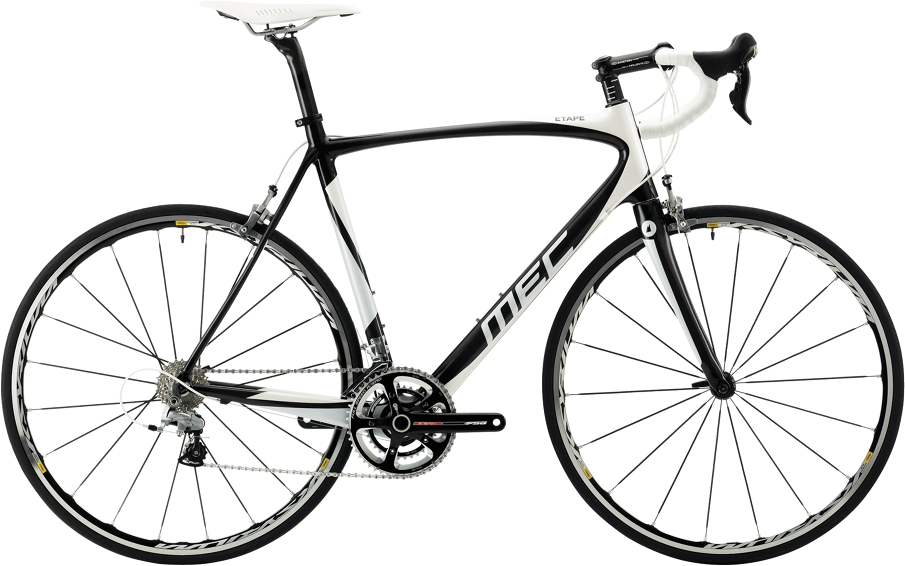
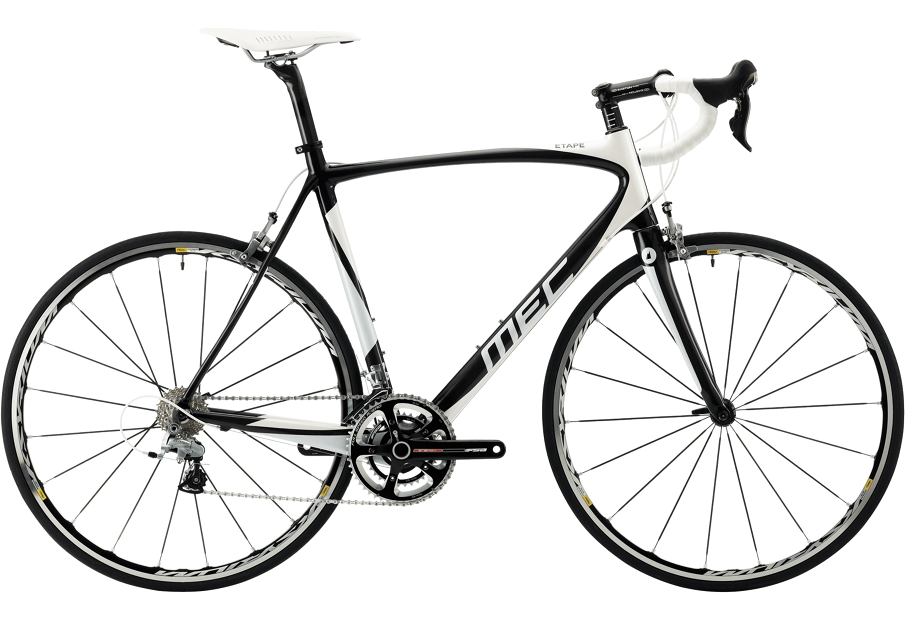
responsify the contents & footer

Changed region(s): [[0.0, 0.0, 1.0, 1.0], [0.6807, 0.5406, 0.7116, 0.5707], [0.0928, 0.5106, 0.1238, 0.5406]]

diff --git a/app/index.html b/app/index.html
@@ -78,16 +78,16 @@
         </section>
 
         <section class="content-section features">
-            <div class="column--breakout is-5">
-                <div class="section__figure">
-                    <figure class="feature__display">
-                        <img src="img/bicycle_PNG5392.png" alt="">
-                    </figure>
-                </div>
-            </div>
-            <div class="container">
+            <div class="container is-fluid">
                 <div class="columns">
-                    <div class="column is-7 is-offset-7">
+                    <div class="column is-7">
+                        <div class="section__figure">
+                            <figure class="feature__display">
+                                <img src="img/bicycle_PNG5392.png" alt="">
+                            </figure>
+                        </div>
+                    </div>
+                    <div class="column is-4">
                         <div class="features__content">
                             <h1 class="title is-4">Effortless travelling with BikeX</h1>
                             <p class="subtitle is-5">Featuring freshing functions that can be found nowhere but in our product.</p>
@@ -145,7 +145,7 @@
                             <a href="#" class="button button--accent">What's the Inspiration?</a>
                         </div>
                     </div>
-                    <div class="column is-9 is-right">
+                    <div class="column is-7">
                         <div class="section__design">
                             <figure class="design__display">
                                 <img src="img/MEC_Road_Bike_transparent_905.png" alt=""></figure>
@@ -290,12 +290,12 @@
                         <h1 class="title is-4">Pre-order from your location's retailer right now</h1>
                         <p class="subtitle is-5">Also grab our subscription for free once you registered</p>
                         <form action="" class="preorder-form">
-                            <a href="#" class="button button--accent">Submit</a>
+                            <a class="button button--accent">Submit</a>
                             <p class="control has-icon">
-                                <input type="email" class="input" placeholder="Enter email address" id="email-input">
+                                <input required type="email" class="input" placeholder="Enter email address" id="email-input">
                                 <i class="icon icon-home"></i>
                             </p>
-                            <select class="cs-select cs-skin-border">
+                            <select required class="cs-select cs-skin-border">
                                 <option value="" disabled selected>Choose your retailer</option>
                                 <option value="1">Helsinki</option>
                                 <option value="2">London</option>

diff --git a/app/styles/css/main.css b/app/styles/css/main.css
@@ -34,6 +34,9 @@ div.cs-select:focus {
   white-space: nowrap;
   overflow: hidden;
   text-overflow: ellipsis; }
+  @media (max-width: 598px) {
+    .cs-select span {
+      font-size: 12px; } }
 
 /* Placeholder and selected option */
 .cs-select > span {
@@ -103,6 +106,9 @@ div.cs-skin-border {
   font-family: 'Helium';
   content: '\e65b';
   color: #eb5937; }
+  @media (max-width: 598px) {
+    .cs-skin-border > span::after {
+      font-size: 14px; } }
 
 .cs-skin-border ul span::after {
   content: '';
@@ -255,6 +261,9 @@ h1 {
     .content-section .container {
       padding-left: 1em;
       padding-right: 1em; } }
+  @media (max-width: 598px) {
+    .content-section .title {
+      font-size: 36px; } }
 
 .container__content {
   padding-bottom: 2em; }
@@ -281,7 +290,8 @@ h1 {
   width: 75vw; }
   @media (max-width: 598px) {
     .navigation header {
-      width: 90vw; } }
+      width: 100vw;
+      padding: 0 1em; } }
 
 .header__content {
   transform: translateY(-50px);
@@ -429,6 +439,13 @@ h1 {
   margin: 1.5em 0;
   line-height: 1.5; }
 
+@media (max-width: 979px) {
+  .features .columns, .design .columns {
+    display: flex;
+    flex-flow: column wrap; }
+  .features .column.is-7, .design .column.is-7 {
+    order: 2; } }
+
 .features__list {
   margin: 3.5em 0; }
   .features__list .title {
@@ -480,6 +497,8 @@ a.button--accent {
       color: #EEEFF7;
       font-weight: 700;
       margin-bottom: 0.75em; }
+    .transition .content .subtitle {
+      color: #EEEFF7; }
     .transition .content .button {
       margin-top: 2em; }
 
@@ -642,6 +661,9 @@ div.block--selected:not(.color-block) {
 
 #email-input {
   padding-left: 4em; }
+  @media (max-width: 598px) {
+    #email-input {
+      font-size: 12px; } }
 
 /* section footer */
 footer {
@@ -670,6 +692,9 @@ footer {
   text-align: right; }
   .copyright p > span {
     color: #eb5937; }
+  @media (max-width: 598px) {
+    .copyright {
+      text-align: center; } }
 
 /* For Icon Font */
 .icon {

diff --git a/app/styles/scss/main.scss b/app/styles/scss/main.scss
@@ -166,6 +166,12 @@ h1 {
             padding-right: 1em;
         }
     }
+
+    @include phone {
+        .title {
+            font-size: 36px;
+        }
+    }
 }
 
 .container__content {
@@ -203,7 +209,8 @@ h1 {
         width: 75vw;
 
         @include phone {
-            width: 90vw;
+            width: 100vw;
+            padding: 0 1em;
         }
     }
 
@@ -413,6 +420,17 @@ h1 {
         margin: 1.5em 0;
         line-height: 1.5;
     }
+
+    @include tablet {
+        .columns {
+            display: flex;
+            flex-flow: column wrap;
+        }
+
+        .column.is-7 {
+            order: 2;
+        }
+    }
 }
 
 .features__list {
@@ -485,6 +503,10 @@ a.button--accent {
             color: $color-light;
             font-weight: 700;
             margin-bottom: 0.75em;
+        }
+
+        .subtitle {
+            color: $color-light;
         }
 
         .button {
@@ -719,6 +741,10 @@ div.block--selected:not(.color-block) {
 
 #email-input {
     padding-left: 4em;
+
+    @include phone {
+        font-size: 12px;
+    }
 }
 
 /* section footer */
@@ -760,6 +786,10 @@ footer {
 
     p > span {
         color: $color-accent;
+    }
+
+    @include phone {
+        text-align: center;
     }
 }
 

diff --git a/app/styles/scss/dropdown.scss b/app/styles/scss/dropdown.scss
@@ -1,5 +1,6 @@
 /* Default custom select styles */
 @import "../scss/partials/vars";
+@import "../scss/partials/mixins";
 
 div.cs-select {
 	display: inline-block;
@@ -36,6 +37,10 @@ div.cs-select:focus {
 	white-space: nowrap;
 	overflow: hidden;
 	text-overflow: ellipsis;
+
+	@include phone {
+		font-size: 12px;
+	}
 }
 
 /* Placeholder and selected option */
@@ -119,6 +124,10 @@ div.cs-skin-border {
 	font-family: 'Helium';
 	content: '\e65b';
 	color: $color-accent;
+
+	@include phone {
+		font-size: 14px;
+	}
 }
 
 .cs-skin-border ul span::after {

diff --git a/app/styles/css/dropdown.css b/app/styles/css/dropdown.css
@@ -32,6 +32,9 @@ div.cs-select:focus {
   white-space: nowrap;
   overflow: hidden;
   text-overflow: ellipsis; }
+  @media (max-width: 598px) {
+    .cs-select span {
+      font-size: 12px; } }
 
 /* Placeholder and selected option */
 .cs-select > span {
@@ -101,6 +104,9 @@ div.cs-skin-border {
   font-family: 'Helium';
   content: '\e65b';
   color: #eb5937; }
+  @media (max-width: 598px) {
+    .cs-skin-border > span::after {
+      font-size: 14px; } }
 
 .cs-skin-border ul span::after {
   content: '';
